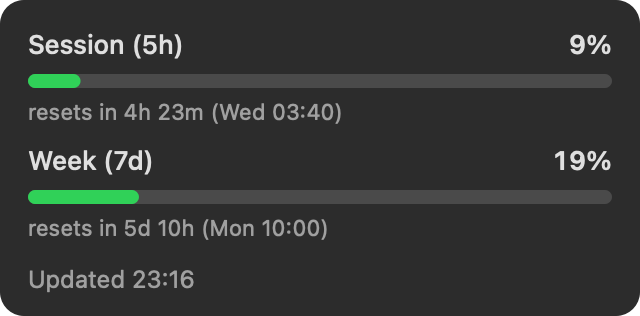
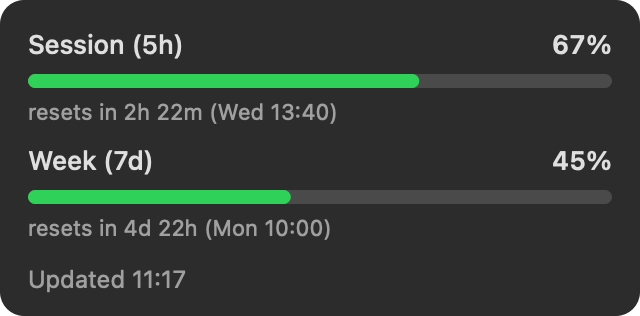
Lap 21: launch kit + form packet rewritten to the zero-network story; v0.3.1 release; snapshot re-shot via the hook

diff --git a/docs/LAUNCH.md b/docs/LAUNCH.md
@@ -1,16 +1,17 @@
 # Launch kit — ready to paste
 
-Three posts, one per channel, in posting order. Every claim below was verified against
-live reality on 2026-06-09, v0.2.0 (zip = 289,329 bytes, `Usage.swift` = 164 lines, app
-total ~780 lines, landing/download/repo/tap all 200). **The posting itself is Pat's** — it goes
-out under his name. Rules: post honestly, answer every comment, never astroturf, and if
-a number changes (size, line count), re-verify before pasting.
+Three posts, one per channel, in posting order. Every claim verified against live
+reality on 2026-06-10, v0.3.1 (zip = 256,346 bytes ≈ 250 KB, app ≈ 590 lines, zero
+network calls by design, landing/download/repo/tap all 200). **The posting itself is
+Pat's** — it goes out under his name. Rules: post honestly, answer every comment, never
+astroturf, and if a number changes, re-verify before pasting. A fresh real screenshot
+lives at `docs/dropdown.png` (the app's own rendering, real data).
 
 ---
 
 ## 1. Hacker News — Show HN (the big one)
 
-**Title** (80 chars max, no superlatives — HN strips them):
+**Title** (80 chars max, no superlatives):
 
 > Show HN: Headroom – Claude Code usage limits, live in the macOS menu bar
 
@@ -20,29 +21,30 @@ a number changes (size, line count), re-verify before pasting.
 
 > Everyone on a Claude Pro/Max plan lives with two invisible meters — the 5-hour
 > session window and the 7-day weekly cap — and usually discovers them the bad way:
-> a hard stop mid-task. The signal exists (`/usage` in Claude Code shows it), but a
-> meter you have to remember to poll isn't a meter.
+> a hard stop mid-task. The signal exists (`/usage` shows it), but a meter you have
+> to remember to poll isn't a meter.
 >
 > Headroom puts both numbers in the menu bar as a live %, color-coded as you approach
-> a limit, with reset countdowns. Zero config: Claude Code already keeps an OAuth
-> token in your macOS Keychain, so Headroom reads it the same way Claude Code does and
-> asks Anthropic's usage endpoint for the same numbers `/usage` shows. No API key, no
-> login, no settings.
+> a limit, with reset countdowns. Zero config: install it and the numbers are there.
 >
-> An app that sits next to your credentials all day must be auditable, so the trust
-> surface is deliberately small: the entire network + Keychain code is 
-> file (Usage.swift), the whole app is ~780 lines of AppKit with zero dependencies,
-> and the token goes to api.anthropic.com and nowhere else — no analytics, no
-> auto-updater, no other network calls. Signed & notarized; ~280 KB zip; or
-> `brew install --cask patwalls/tap/headroom`. Free.
+> The part I think HN will appreciate: Headroom makes **zero network calls**. Claude
+> Code already receives your official rate-limit numbers and renders them in its
+> status line — so Headroom installs a tiny status-line hook that saves that JSON to
+> a local file, and the menu bar reads the file. No token, no Keychain access, no API
+> polling (early versions polled Anthropic's usage endpoint and spent their lives
+> dodging 429s — reading the data Claude Code already has locally deleted half the
+> app). No analytics, no auto-updater. The whole thing is ~590 lines of dependency-free
+> AppKit Swift, MIT licensed — the data surface is two small files you can read in
+> five minutes.
 >
-> One more thing worth disclosing because it's in the repo anyway: most of this was
-> built by Claude itself, running an autonomous "ship one real thing per lap" loop —
-> the full log of what shipped each lap (and what broke) is in VISION.md. Happy to
-> answer anything about that experiment too.
+> Signed & notarized, ~250 KB. Download or `brew install --cask patwalls/tap/headroom`.
+>
+> One more disclosure because it's in the repo anyway: most of this was built by
+> Claude itself, running an autonomous "ship one real thing per lap" loop — the full
+> lap-by-lap log (including the architectural wrong turn and the deletion that fixed
+> it) is in VISION.md. Happy to answer anything about that experiment too.
 
-**Timing:** weekday, 8–10am ET. Don't repost within 8 hours if it sinks; HN allows a
-second attempt days later.
+**Timing:** weekday, 8–10am ET.
 
 ---
 
@@ -51,35 +53,32 @@ second attempt days later.
 **Title:**
 
 > I got tired of hitting the weekly limit mid-task, so now my menu bar shows my
-> Claude Code usage as a live %
+> Claude Code usage as a live % — zero network calls, it reads what Claude Code
+> already knows
 
 **Body:**
 
-> The 5-hour session and 7-day weekly meters always found me the bad way — a hard
-> stop in the middle of something. `/usage` shows the numbers, but I never remembered
-> to run it.
+> The 5-hour session and 7-day weekly meters always found me the bad way. `/usage`
+> shows the numbers, but I never remembered to run it.
 >
 > So: **Headroom**, a tiny free macOS menu bar app. Live session + weekly %,
-> color-coded (calm → amber → red as a limit approaches), reset countdowns in the
-> dropdown. Zero config — it reads the OAuth token Claude Code already keeps in your
-> Keychain and calls the same usage endpoint `/usage` does. No API key, no login.
+> color-coded (calm → amber → red), reset countdowns in the dropdown.
 >
-> Because it sits next to your credentials, the trust part matters: the token goes to
-> api.anthropic.com and nowhere else, no analytics, no phoning home — and the entire
-> network/Keychain surface is  file you can read on GitHub (whole app is
-> ~780 lines, no dependencies). Signed & notarized.
+> The trust part, because an app near your Claude setup should be auditable:
+> Headroom makes **zero network calls**. Claude Code already gets your official
+> rate-limit numbers and renders them in its status line — Headroom hooks that and
+> reads the local file. No token, no Keychain, no API polling, no analytics. MIT
+> licensed, ~590 lines, no dependencies — the data path is two small files on GitHub.
 >
-> Download: https://headroom.walls.sh (~280 KB) · Brew:
+> Download: https://headroom.walls.sh (~250 KB, signed & notarized) · Brew:
 > `brew install --cask patwalls/tap/headroom` · Source:
 > https://github.com/patwalls/headroom
 >
 > Fun disclosure: it was mostly built by Claude running an autonomous build loop —
-> every lap is logged in the repo's VISION.md. Feedback very welcome, especially on
-> the trust model.
+> every lap is logged in the repo's VISION.md, including the architecture it had to
+> delete. Feedback very welcome.
 
-**Attach a real screenshot** of the menu bar + dropdown (a real %, not a mock — take it
-when the week is mid-range so the bar shows color). r/ClaudeAI allows self-promo that's
-free + relevant; engage in comments.
+**Attach:** `docs/dropdown.png` (real render, real data) or a live screenshot.
 
 ---
 
@@ -89,24 +88,22 @@ free + relevant; engage in comments.
 
 > Your Claude Code limits, live in the menu bar.
 >
-> Headroom: session (5h) + weekly (7d) usage as a %, color-coded before a limit stops
-> you mid-task. Zero config — it reads the token Claude Code already stores. Free,
-> notarized, ~780 lines of auditable Swift.
+> Headroom: session (5h) + weekly (7d) usage as a color-coded %. Zero config, zero
+> network calls — it reads the numbers Claude Code already renders in its status
+> line. Free, notarized, ~590 lines of MIT Swift.
 >
 > https://headroom.walls.sh
 
-**Attach:** the same real screenshot, or a 10-second screen recording of the dropdown.
-Tag nothing; let it ride. A reply tweet can carry the brew one-liner and the GitHub
-link.
+**Attach:** same image. A reply tweet carries the brew one-liner + GitHub link.
 
 ---
 
 ## Checklist (in order)
 
-1. [ ] Take ONE real screenshot: menu bar % + open dropdown (used by Reddit + X).
-2. [ ] r/ClaudeAI first (friendliest audience, fastest feedback — catches problems
-       before HN sees them).
-3. [ ] Show HN next weekday morning ET, first comment pasted within a minute.
-4. [ ] X same day as HN.
-5. [ ] Watch `https://headroom.walls.sh/metrics` — milestone 4 is the FIRST stranger
-       download; milestone 5 is 25 + first external feedback. Reply to everything.
+1. [ ] r/ClaudeAI first (friendliest audience, fastest feedback).
+2. [ ] Show HN next weekday morning ET, first comment pasted within a minute.
+3. [ ] X same day as HN.
+4. [ ] Watch `https://headroom.walls.sh/metrics` — milestone 5 is 25 downloads +
+       first external feedback. Reply to everything.
+5. [ ] 2026-06-16+: submit to awesome-claude-code (packet in LISTINGS.md — update its
+       description to the zero-network story before pasting).

diff --git a/docs/LISTINGS.md b/docs/LISTINGS.md
@@ -36,17 +36,18 @@ Paste these into the form fields:
 - **Description:**
   > Native macOS menu bar app that shows Claude Code's 5-hour session and 7-day weekly
   > utilization as a live percentage, color-coded as a limit approaches, with reset
-  > countdowns. Zero configuration: it reads the OAuth token Claude Code already stores
-  > in the macOS Keychain and queries Anthropic's usage endpoint — the same numbers
-  > /usage shows.
+  > countdowns. Zero configuration and zero network calls: it reads the official
+  > rate-limit numbers Claude Code itself renders in its status line, via a tiny
+  > status-line hook — the same numbers /usage shows, from a local file.
 - **Validate Claims:**
   > Install (download from https://headroom.walls.sh or `brew install --cask
   > patwalls/tap/headroom`), launch, and compare the menu bar percentage with what
-  > `/usage` shows inside Claude Code — they match because both read the same endpoint.
-  > The entire network + Keychain surface is one 150-line file
-  > (app/Sources/Headroom/Usage.swift); the only network call is to api.anthropic.com.
-  > Uninstall: quit from the menu bar, delete Headroom.app (no files left behind; the
-  > Keychain item belongs to Claude Code, not Headroom).
+  > `/usage` shows inside Claude Code — they match because Headroom reads the data
+  > Claude Code itself writes. The app makes ZERO network requests (verify with Little
+  > Snitch or `nettop`); the entire data surface is two small files (Hook.swift,
+  > Usage.swift). Uninstall: quit from the menu bar, delete Headroom.app, and remove
+  > the headroom-statusline line from ~/.claude/settings.json + the two headroom-*
+  > files in ~/.claude if you want zero trace.
 - **Specific Task(s):**
   > Run Claude Code until the session meter moves, then glance at the menu bar — the
   > percentage updates within 60 seconds without opening a terminal.
@@ -54,9 +55,10 @@ Paste these into the form fields:
   > In Claude Code, run /usage and compare its session + weekly percentages with
   > Headroom's dropdown.
 - **Additional Comments:**
-  > Per the guidelines: the app makes NO network requests except to api.anthropic.com
-  > (that single call IS the product); no telemetry, no auto-update, no analytics.
-  > Signed & notarized. Disclosure: largely built by Claude Code itself in an
-  > autonomous build loop — the lap-by-lap log is in the repo's VISION.md.
+  > Per the guidelines: the app makes NO network requests at all — it reads a local
+  > file written by Claude Code's own status line; no telemetry, no auto-update, no
+  > analytics. Signed & notarized, MIT. Disclosure: largely built by Claude Code
+  > itself in an autonomous build loop — the lap-by-lap log is in the repo's
+  > VISION.md.
 
 After approval, add their badge to the README (snippet in their CONTRIBUTING.md).

diff --git a/VISION.md b/VISION.md
@@ -115,6 +115,27 @@ run it is [`LOOP.md`](LOOP.md).
 
 ### Loop log (newest first)
 
+- **Lap 21 — 2026-06-10 · The launch kit tells the true (better) story — and the hook proves itself on machine #2.**
+  *Shipped:* docs/LAUNCH.md fully rewritten to v0.3.1 reality — the HN first-comment now
+  leads with "zero network calls" and owns the architectural wrong turn (polling → 429
+  purgatory → delete half the app) as part of the pitch; Reddit/X copy updated; every
+  number re-verified live (256,346 B zip, ~590 lines). The awesome-claude-code form
+  packet's description/validation/comments updated to the hook story (verify with
+  nettop: zero requests; uninstall instructions now cover the two ~/.claude files).
+  [v0.3.1 GitHub release](https://github.com/patwalls/headroom/releases/tag/v0.3.1)
+  published with the architecture-flip changelog. And the verification doubled as a
+  milestone: this machine's `--print` rendered session 67% / week 45% straight from
+  `~/.claude/headroom-usage.json` — the hook auto-wired here by v0.3.1's first launch,
+  written by the very Claude Code session running this loop, zero network. The
+  dropdown.png on the landing/README is re-shot from that data (amber session bar —
+  better for posts). All 4 listing PRs still OPEN, counter at 6. *Fact learned:* the
+  loop is now its own first user — the statusline hook gets continuously integration-
+  tested by the loop's own Claude Code sessions writing real data through it; dogfood
+  isn't a metaphor when the build tool IS the data source. *Next lap:* PR feedback,
+  the 6/16 awesome-claude-code submission window, or the next listing rung — the
+  launch ball is in Pat's court (kit is paste-ready).
+
+
 - **Lap 20 — 2026-06-10 · The hook-only release is LIVE (v0.3.1) — and the pitch is finally the product.**
   *Shipped:* Lap 19's blow-out, notarized and deployed from the Developer-ID machine as
   v0.3.1 (the 0.3.0 zip briefly live this morning was the pre-blowout hybrid — replaced